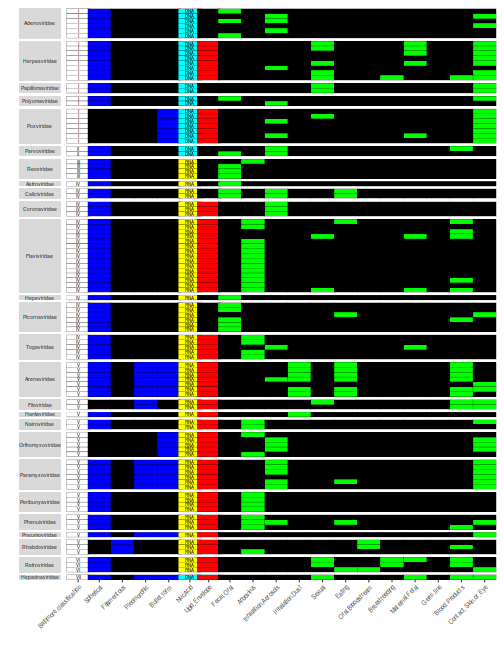
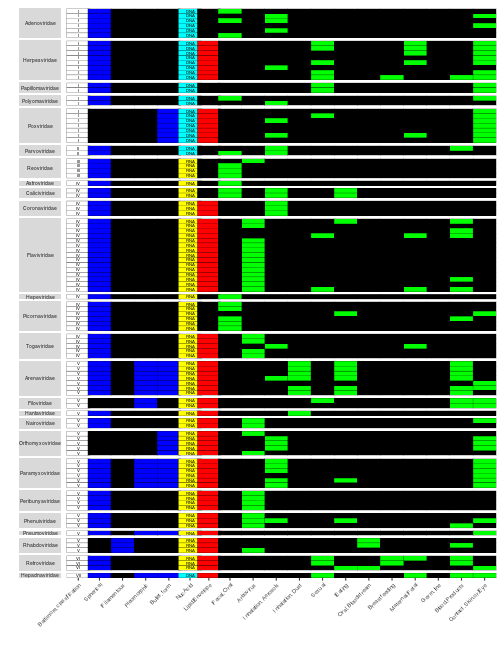
Add figure 2 generation

diff --git a/README.md b/README.md
@@ -6,10 +6,14 @@ make
 ```
 
 in this directory. Requires `R` and the `R` packages:
-* ggplot2
-* knitr
-* dplyr
-* tidyr
+* `ggplot2`
+* `knitr`
+* `dplyr`
+* `tidyr`
+* `ape`
+* `phylolm`
+* `parallel`
+* `phytools`
 
 
 
@@ -37,21 +41,45 @@ print(sessionInfo())
 ## [11] LC_MEASUREMENT=en_US.UTF-8 LC_IDENTIFICATION=C       
 ## 
 ## attached base packages:
-## [1] stats     graphics  grDevices utils     datasets  methods   base     
+## [1] parallel  stats     graphics  grDevices utils     datasets  methods  
+## [8] base     
 ## 
 ## other attached packages:
-## [1] tidyr_0.8.1   dplyr_0.8.0.1 ggplot2_3.1.0
+## [1] phytools_0.6-60 maps_3.3.0      phylolm_2.6     ape_5.2        
+## [5] tidyr_0.8.1     dplyr_0.8.0.1   ggplot2_3.1.0  
 ## 
 ## loaded via a namespace (and not attached):
-##  [1] Rcpp_1.0.0       knitr_1.20       magrittr_1.5     tidyselect_0.2.5
-##  [5] munsell_0.5.0    colorspace_1.3-2 R6_2.2.2         rlang_0.3.1     
-##  [9] stringr_1.3.1    plyr_1.8.4       tools_3.4.4      grid_3.4.4      
-## [13] gtable_0.2.0     withr_2.1.2      lazyeval_0.2.1   assertthat_0.2.0
-## [17] tibble_2.0.1     crayon_1.3.4     purrr_0.2.5      glue_1.3.0      
-## [21] evaluate_0.11    stringi_1.2.4    compiler_3.4.4   pillar_1.3.1    
-## [25] scales_0.5.0     pkgconfig_2.0.2
+##  [1] Rcpp_1.0.0              pillar_1.3.1           
+##  [3] compiler_3.4.4          plyr_1.8.4             
+##  [5] tools_3.4.4             digest_0.6.15          
+##  [7] evaluate_0.11           tibble_2.0.1           
+##  [9] gtable_0.2.0            nlme_3.1-137           
+## [11] lattice_0.20-38         pkgconfig_2.0.2        
+## [13] rlang_0.3.1             fastmatch_1.1-0        
+## [15] Matrix_1.2-14           igraph_1.2.2           
+## [17] expm_0.999-3            coda_0.19-2            
+## [19] withr_2.1.2             stringr_1.3.1          
+## [21] knitr_1.20              globals_0.12.4         
+## [23] combinat_0.0-8          scatterplot3d_0.3-41   
+## [25] grid_3.4.4              tidyselect_0.2.5       
+## [27] glue_1.3.0              listenv_0.7.0          
+## [29] R6_2.2.2                plotrix_3.7-4          
+## [31] future.apply_1.1.0      phangorn_2.4.0         
+## [33] animation_2.6           purrr_0.2.5            
+## [35] magrittr_1.5            MASS_7.3-50            
+## [37] scales_0.5.0            codetools_0.2-15       
+## [39] mnormt_1.5-5            assertthat_0.2.0       
+## [41] future_1.11.1.1         colorspace_1.3-2       
+## [43] numDeriv_2016.8-1       quadprog_1.5-5         
+## [45] stringi_1.2.4           lazyeval_0.2.1         
+## [47] munsell_0.5.0           clusterGeneration_1.3.4
+## [49] crayon_1.3.4
 ```
 
 
-## Figure 1: Human viral traits and tranmission modes
+## Figure 1: Human viral traits and transmission modes
 ![plot of chunk humanHeatmap](figure/humanHeatmap-1.png)
+
+## Figure 2: Association of viral traits and transmission modes
+![heatmap plots of association analysis](figure/heat.png)
+
